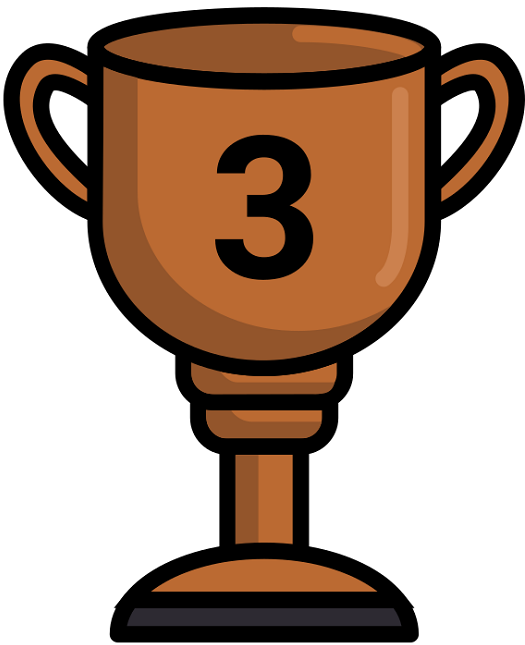
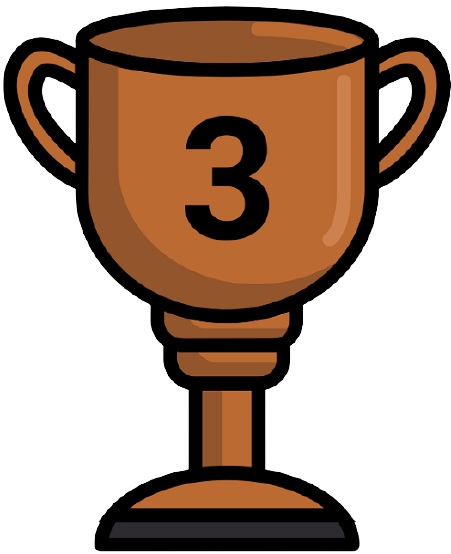
Mejora interfaz puntuaciones

diff --git a/src/components/Puntuaciones.jsx b/src/components/Puntuaciones.jsx
@@ -1,9 +1,10 @@
 import React, { useEffect } from "react";
 import "./Puntuaciones.css";
+import Oro from "../img/Oro.png";
+import Plata from "../img/Plata.png";
+import Bronce from "../img/Bronce.png";
 import { useState } from "react/cjs/react.development";
-import { consultarDatabase } from "../config/firebase";
-
-// INTERFAZ DE PUNTUACIONES. A TRAVÉS DE UNA LISTA Y UN .MAP, SE MUESTRAN LOS USUARIOS, PUNTUACIONES Y FECHA.
+import { ConsultarColeccionFiltrada } from "../config/firebase";
 
 export default function Puntuaciones() {
   const [listaUsuarios, setListaUsuarios] = useState([]);
@@ -12,27 +13,82 @@ export default function Puntuaciones() {
     actualizarListaUsuarios();
   }, []);
 
+  // Se extraen de la base de datos, los 10 primeros jugadores con mejor puntaje ordenado de mayor a menor
+
   async function actualizarListaUsuarios() {
-    setListaUsuarios(await consultarDatabase("usuarios"));
+    setListaUsuarios(
+      await ConsultarColeccionFiltrada("usuarios", "puntuacion", ">", 0)
+    );
   }
 
   return (
     <>
+      {/* Se imprimen los 3 mejores jugadores de forma separada al resto */}
+
       <div className="body-puntuaciones">
         <div className="container d-flex align-items-center align-self-center justify-content-center">
-          <div className="list-group w-75 mt-5">
-            {listaUsuarios.map((u) => (
+          <div className="row mt-2 mx-5 cl-12">
+            <div className="card col-md-3 my-5 mx-md-5 pt-3 order-md-2 bg-dark text-warning rounded border border-warning">
+              <img
+                src={Oro}
+                className="card-img-top responsive"
+                alt="Copa de oro"
+              />
+              <div className="card-body">
+                <h5 className="card-title text-center">
+                  {listaUsuarios[0]?.nickname}
+                </h5>
+                <p className="card-text">
+                  Puntuacion: {listaUsuarios[0]?.puntuacion}{" "}
+                </p>
+                <p className="card-text">Fecha: {listaUsuarios[0]?.fecha}</p>
+              </div>
+            </div>
+            <div className="card col-md-3 my-5 mx-md-4 pt-3 order-md-1 bg-dark text-light rounded border border-info">
+              <img src={Plata} className="card-img-top" alt="Copa de oro" />
+              <div className="card-body">
+                <h5 className="card-title text-center">
+                  {listaUsuarios[1]?.nickname}
+                </h5>
+                <p className="card-text">
+                  Puntuacion: {listaUsuarios[1]?.puntuacion}
+                </p>
+                <p className="card-text">Fecha: {listaUsuarios[1]?.fecha}</p>
+              </div>
+            </div>
+            <div className="card col-md-3 my-5 mx-md-4 pt-3 order-md-3 bg-dark text-light rounded border border-secondary">
+              <img src={Bronce} className="card-img-top" alt="Copa de oro" />
+              <div className="card-body">
+                <h5 className="card-title text-center">
+                  {listaUsuarios[2]?.nickname}
+                </h5>
+                <p className="card-text">
+                  Puntuacion: {listaUsuarios[2]?.puntuacion}
+                </p>
+                <p className="card-text">Fecha: {listaUsuarios[2]?.fecha}</p>
+              </div>
+            </div>
+          </div>
+        </div>
+
+        {/* Se Imprimen los ultimos 7 jugadores en una lista aparte */}
+
+        <div className="container d-flex align-items-center align-self-center justify-content-center">
+          <div className="list-group w-50">
+            {listaUsuarios.slice(3).map((usuario) => (
               <li
-                key={u.id}
-                className="list-group-item list-group-item-action flex-column align-items-start bg-dark text-light"
+                key={usuario.id}
+                className="list-group-item list-group-item-action flex-column align-items-start bg-dark text-light rounded border border-success"
               >
                 <div className="d-flex">
                   <h5 className="mb-1 container-fluid mt-2">
-                    Nickname: {u.nickname}{" "}
+                    {usuario?.nickname}
                   </h5>
-                  <small className="w-25">{u.fecha}</small>
+                  <small className="w-25">{usuario?.fecha}</small>
                 </div>
-                <p className="container-fluid mt-2">Puntaje: {u.puntuacion}</p>
+                <p className="container-fluid mt-2">
+                  Puntaje: {usuario?.puntuacion}
+                </p>
               </li>
             ))}
           </div>

diff --git a/src/components/Login.jsx b/src/components/Login.jsx
@@ -1,55 +1,45 @@
-import { useContext, useEffect, useState} from "react";
+import { useContext, useEffect, useState } from "react";
 import { Link } from "react-router-dom";
-import { consultarDatabase, guardarDatabase} from "../config/firebase";
+import { consultarDatabase, guardarDatabase } from "../config/firebase";
 import "./Login.css";
-import { InfoUsuario} from "./UserContext";
-
+import { InfoUsuario } from "./UserContext";
 
 //PANTALLA DE LOGIN, DONDE EL USUARIO SE PUEDE LOGUEAR SIMPLEMENTE CON EL NICKNAME.
 //NO HAY NICKNAME REPETIDOS, PERO NO TIENEN RESTRICCIONES EN TEMA DE NÚMERO DE CARACTERES.
 //SI SE INGRESA UN NICKNAME QUE YA SE ENCUENTRA EN LA BASE DE DATOS, SE EXTRAE SU INFORMACIÓN Y SE JUEGA CON ÉL
 
-
 export default function Login() {
-
-  const {usuario, setUsuario} = useContext(InfoUsuario)
-  const [listaUsuarios, setListaUsuarios] = useState([])
+  const { usuario, setUsuario } = useContext(InfoUsuario);
+  const [listaUsuarios, setListaUsuarios] = useState([]);
 
   useEffect(() => {
-    actualizarListaUsuarios()
-
-  },[]);
-
+    actualizarListaUsuarios();
+  }, []);
 
   async function actualizarListaUsuarios() {
-    setListaUsuarios(await consultarDatabase('usuarios'));
-};
+    setListaUsuarios(await consultarDatabase("usuarios"));
+  }
 
-  const handleUsuario = ()=>{
-    
-    let usuarioExiste = null
-    usuarioExiste = listaUsuarios.find(u=>u.nickname === usuario.nickname)
-    if(usuarioExiste){
-      setUsuario(usuarioExiste)
-    }else{
-
+  const handleUsuario = () => {
+    let usuarioExiste = null;
+    usuarioExiste = listaUsuarios.find((u) => u.nickname === usuario.nickname);
+    if (usuarioExiste) {
+      setUsuario(usuarioExiste);
+    } else {
       setUsuario({
         nickname: usuario.nickname,
         fecha: new Date().toDateString(),
-        puntuacion: 0
-      }
-      )
+        puntuacion: 0,
+      });
       // setListaUsuarios([...listaUsuarios, usuario])
-      guardarDatabase('usuarios',usuario)
+      guardarDatabase("usuarios", usuario);
     }
+  };
 
-  }
-
-const handleSetUsuario = (e)=>{
-  setUsuario({...usuario, nickname:e.target.value})
-}
+  const handleSetUsuario = (e) => {
+    setUsuario({ ...usuario, nickname: e.target.value });
+  };
   return (
-
     <>
       <div className="d-flex body-Login">
         <div className="container d-flex align-items-center align-self-center justify-content-center">

diff --git a/src/config/firebase.js b/src/config/firebase.js
@@ -13,6 +13,10 @@ import {
   getDoc,
   doc,
   updateDoc,
+  where,
+  orderBy,
+  limit
+
 } from "firebase/firestore";
 
 
@@ -85,6 +89,32 @@ export const actualizarDocumentoDatabase = async (
   }
 };
 
+// Extrae una colección filtrada de la base de datos, de forma descendente limitado a 10
+
+export const ConsultarColeccionFiltrada = async (nombreColeccion, keyDocumento, condicion, value) => {
+    try {
+      const response = await getDocs(
+                                      query(
+                                             collection(database, nombreColeccion), 
+                                             where(keyDocumento, condicion, value), 
+                                             orderBy(keyDocumento, 'desc'), 
+                                             limit(10) // Limita a 10 la cantidad de jugadores a extraer
+                                           )
+                                    );
+      console.log(response);
+      const elementos = response.docs.map((doc) => {
+        const document = {
+          id: doc.id,
+          ...doc.data()
+        }
+        return document;
+      })
+  console.log(elementos)
+      return elementos
+    } catch (error) {
+      throw new Error(error.message)
+    }
+  }
 
 
 
